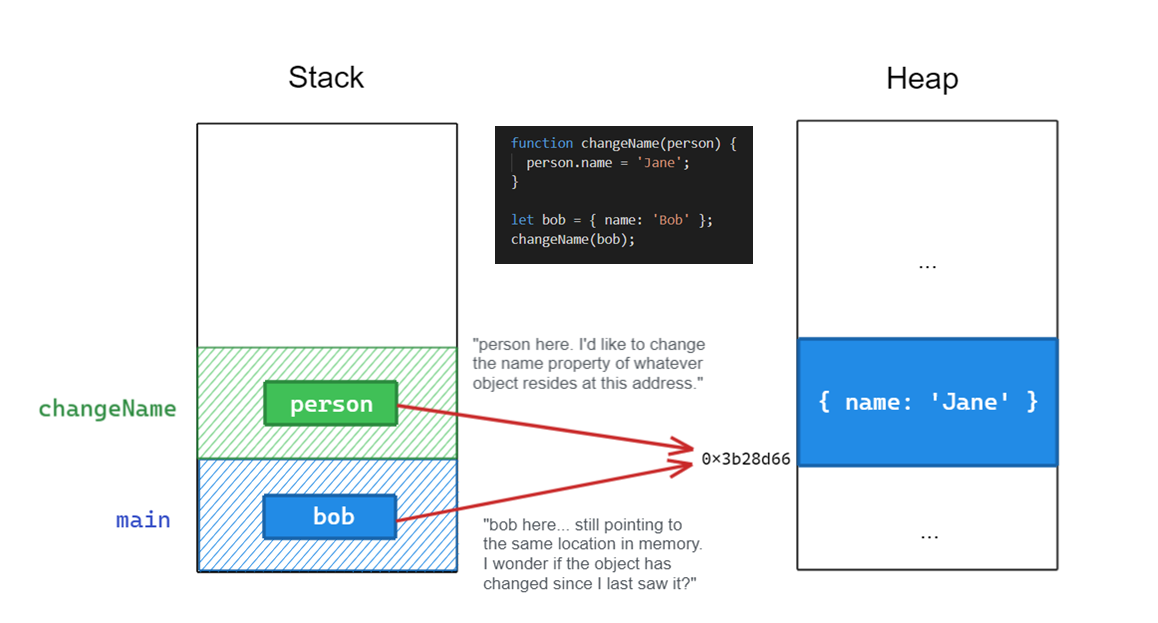
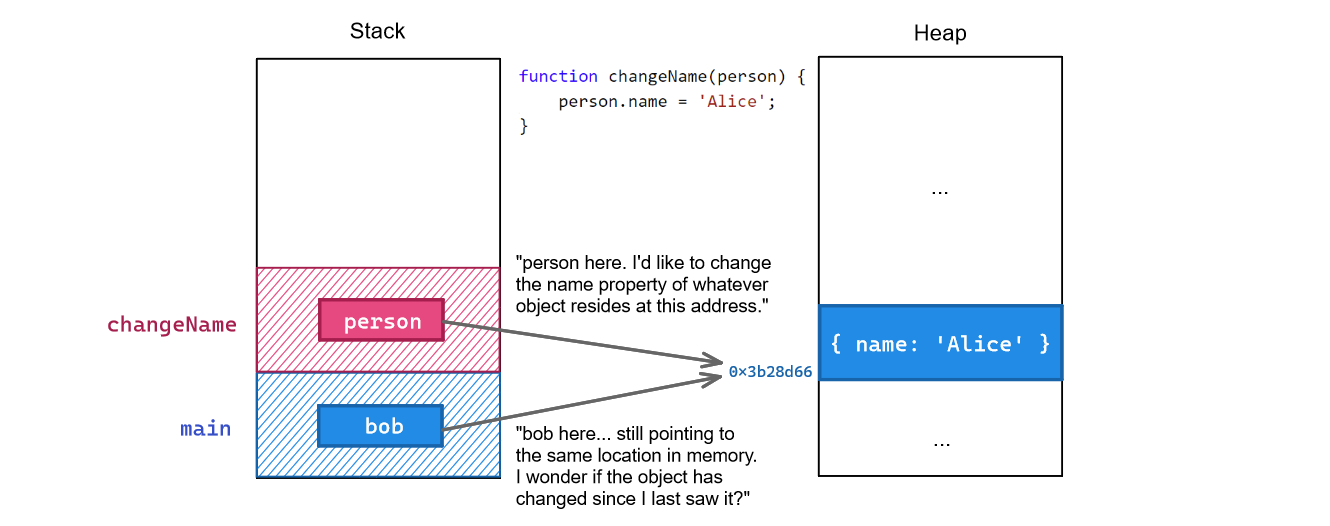
Update article: javascript-pass-by-reference

diff --git a/src/_posts/2020-04-20-javascript-pass-by-reference/index.md b/src/_posts/2020-04-20-javascript-pass-by-reference/index.md
@@ -4,34 +4,32 @@ description: Developers are often taught that JavaScript passes objects by refer
 keywords: [javascript pass by reference]
 categories: [javascript, memory]
 commentsId: 36
-lastUpdated: 2022-07-23
+lastUpdated: 2024-03-20
 thumbnail:
   url: https://images.unsplash.com/photo-1529448005898-b19fc13465b7?ixlib=rb-1.2.1&ixid=MnwxMjA3fDB8MHxwaG90by1wYWdlfHx8fGVufDB8fHx8&auto=format&fit=crop&w=1600&h=900&q=80
 ---
 
-Regardless of what programming language you end up working with, there will come a point when you'll need to know whether it supports pass by reference or if it's only a pass-by-value language; understanding this can allow you to more clearly trace the flow of data in your programs. There's a simple litmus test that can help you figure out which one a language is, but it's also important to understand what exactly these terms mean. Unfortunately, this is a topic that isn't always explained clearly. Beginners often walk away confused and with the wrong mental model for how memory works.
-
-Specifically, this explanation is very common for languages like JavaScript:
+If you're reading this article, chances are that you've heard the terms "pass by value" and "pass by reference"—whatever those mean. Maybe you were told that JavaScript is a pass-by-value language, or maybe you heard that it's pass by reference. More commonly, you've probably heard that it's both. This explanation is very common:
 
 > Primitives are passed by value; objects are passed by reference.
 
-While it certainly sounds simple enough to be true, it's not. JavaScript, like most programming languages, strictly uses pass by value and does not support pass by reference, even though it *does* have what we call "references" (object references).
+This sounds simple enough to be true, but it's actually not. JavaScript, like most programming languages, is a pass-by-value language and does not support pass by reference, even though it *does* have what we call "references" (object references).
 
-To make matters more confusing, [there's a lot of misinformation](https://medium.com/nodesimplified/javascript-pass-by-value-and-pass-by-reference-in-javascript-fcf10305aa9c) out there about this topic. It's something that beginners struggle with not only in JavaScript but also in other languages. Here's what the Medium article linked above says about passing by reference:
+To make matters more confusing, [there's a lot of misinformation](https://medium.com/nodesimplified/javascript-pass-by-value-and-pass-by-reference-in-javascript-fcf10305aa9c) out there about this topic. It's something that developers struggle with not only in JavaScript but also in other languages. Here's what the Medium article linked above says about passing by reference:
 
 > Changing the argument inside the function affect the variable passed from outside the function. In Javascript objects and arrays follows pass by reference.
 
-Even the highest rated answer on StackOverflow for [Is JavaScript a pass-by-reference or pass-by-value language?](https://stackoverflow.com/a/3638034/5323344)—with nearly three times more upvotes than the correct answer—misses the mark, claiming that JavaScript is a special case when it really isn't.
+Even the highest rated answer on StackOverflow for ["Is JavaScript a pass-by-reference or pass-by-value language?"](https://stackoverflow.com/a/3638034/5323344)—with nearly three times more upvotes than the correct answer—misses the mark, claiming that JavaScript is a special case when it really isn't.
 
 In reality, only a few programming languages actually support passing arguments by reference. Two such languages are C++ and PHP. Other languages—like C, Java, JavaScript, Python, and Go, to name a few that come to mind—pass arguments *by value*.
 
-So why do so many people get this wrong? That's what we're here to find out! If you'd like the short answer, feel free to jump to the section titled [Passing Pointers ("References") by Value](#passing-pointers-references-by-value).
+So why do so many people get this wrong? And does it even matter? That's what we're here to learn! If you'd like the short answer, feel free to jump to the section titled [Passing Pointers ("References") by Value](#passing-pointers-references-by-value).
 
 {% include "toc.md" %}
 
-## Prerequisite Terminology: Arguments vs. Parameters
+## Prerequisite Terminology
 
-Before we move on, we'll need a quick terminology primer:
+Before we move on, we'll need a quick terminology primer. Consider this code:
 
 ```javascript
 function doSomething(arg) {
@@ -42,27 +40,25 @@ const obj = { foo: 'bar' };
 doSomething(obj);
 ```
 
-A **formal parameter** (parameter for short) is the local variable declared in a function's signature. Above, the formal parameter of `doSomething` is `arg`. On the other hand, the **argument** is the variable (`obj`) whose value gets passed into the function.
+A <dfn>formal parameter</dfn> (parameter for short) is the local variable declared in a function's signature. Above, the formal parameter of `doSomething` is `arg`. On the other hand, the <dfn>argument</dfn> is the variable (`obj`) whose value gets passed into the function.
 
-Diagrammatically, here's what the stack would look like once `doSomething` has been called:
+When your browser executes this code, it will create two "frames" in its memory stack: one for the main (enclosing) scope and and another for the `doSomething` invocation. Each frame is like a compartment in a drawer, storing values and objects that are not accessible from within other compartments. Diagrammatically, here's what the stack would look like once `doSomething` has been called:
 
-{% include "postImage.html" src: "./images/stack.png", alt: "Two stack frames are shown in memory; one corresponds to the main method. The other, positioned directly above, is a function that was called from main. That stack frame contains the argument that was passed along when the function was invoked." %}
+{% include "postImage.html" src: "./images/stack-frame.png", baseFormat: "png", alt: "Two stack frames are shown in memory; one corresponds to the main method. The other, positioned directly above, is a function that was called from main. That stack frame contains the argument that was passed along when the function was invoked." %}
 
-With that out of the way, let's get into the meat of this post.
+With that out of the way, let's get into the meat of the discussion.
 
 ## JavaScript Doesn't Pass by Reference
 
-If there's one thing you should take away from this post, it's this: Passing **a reference** into a function is not the same as passing an argument **by reference**.
-
-This muddied terminology is the main source of confusion in understanding pass by value vs. pass by reference in JavaScript and other languages. It's something that trips up lots of developers.
+If there's one thing you should take away from this article, it's this: Passing **a reference** into a function is not the same as passing an argument **by reference**. This muddied terminology is the main source of confusion in understanding pass by value vs. pass by reference in JavaScript and other languages. It's something that trips up many developers.
 
 In JavaScript, variables that store objects are called **object references** (usually "references" for short). The term *reference* is a natural way to talk about these variables in English because we say that a variable *refers to* an object in memory, sort of like how an article might *reference* a source.
 
-{% include "postImage.html" src: "./images/object-reference.png", alt: "An object resides somewhere in memory. A little black square is shown, representing a variable named person that points to a specific memory address." %}
+{% include "postImage.html" src: "./images/object-reference.png", baseFormat: "png", alt: "An object resides somewhere in memory. A little black square is shown, representing a variable named person that points to a specific memory address." %}
 
-There's technically nothing wrong with using the term "reference" to talk about objects in this manner, and I don't want to discourage you from doing so—in JavaScript, this is the accepted terminology, and if you choose to deviate from it, you may end up confusing others.
+There's nothing wrong with using the term "reference" to talk about objects in this manner, and I don't want to discourage you from doing so. In JavaScript, this is the accepted terminology; if you choose to deviate from it, you'll end up confusing others.
 
-But this terminology is also confusing for beginners. Who can blame them for making the connection above? It's only natural to think that a language with references must support passing by reference. To suggest otherwise may even seem absurd or pedantic.
+But this terminology is also confusing. Who can blame developers for making the aforementioned connection? It's only natural to think that a language with references must support passing by reference. To suggest otherwise may even seem absurd or pedantic.
 
 So, to clear up this confusion, we'll need to understand two things:
 
@@ -73,15 +69,17 @@ So, to clear up this confusion, we'll need to understand two things:
 
 Let's clarify one thing before moving on: The word "reference" in "pass by reference" has a special meaning, and it does *not* mean "object reference." JavaScript does not have these "true" references. Again, terminology can be confusing!
 
-JavaScript chose to [follow in Java's footsteps](http://www.javadude.com/articles/passbyvalue.htm#on-pointers-versus-references) and uses the term "reference" when talking about variables that point to objects in memory. But as we noted above, while this makes perfect sense in English, it makes it very confusing to talk about "passing references" without losing your mind.
+JavaScript—like Java, Python, and other programming languages—uses the term "reference" when talking about variables that point to objects in memory. But as I noted above, while this makes perfect sense in English, it makes it very confusing to talk about "passing references" without losing your mind.
 
 In a class on programming language theory, you'll learn that the "reference" in "pass by reference" is actually something quite different from these "object references" that you're used to hearing about. In fact, a true reference has nothing to do with objects—references can either hold primitive values or objects.
 
 A true **reference variable** is an alias, or another name for an object. If you've mainly worked with languages like C, Java, JavaScript, Python, and others up until now, this notion of aliases may seem a bit foreign to you. And that's because those languages don't have references! For this reason, I'll use C++ to demonstrate how true references work, contrasting them with the behavior of object references in JavaScript.
 
-By analogy, a reference is like a person's nickname. My real name is Aleksandr, but I sometimes also go by Alex. People can call me either one, and they'll still be referring to me.
+{% aside %}
+By analogy, a reference is like a person's nickname. My real name is Aleksandr, but I sometimes also go by Alex. People can use either identifier to refer to me; they are interchangeable.
+{% endaside %}
 
-Here's some C++ code to illustrate true reference variables in action:
+The following C++ code demonstrates true reference variables in action:
 
 ```cpp {data-copyable=true}
 #include <iostream>
@@ -104,6 +102,8 @@ int main()
 }
 ```
 
+In this example, I created a simple string and bound it to the variable `myName`; then, I created another variable that serves as an alias for `myName` by using the special ampersand syntax for declaring references. I then bound a new string value to this alias. The change was reflected not only in the alias but also in the original (aliased) variable.
+
 In languages that don't support reference variables (e.g., JavaScript), two variables may share **a copy** of a value, but it's guaranteed that those variables will **occupy different memory addresses**. Here's an attempt at the above in JavaScript:
 
 ```javascript {data-copyable=true}
@@ -116,9 +116,9 @@ console.log(myName); // "Aleksandr"
 console.log(myNickname); // "Alex"
 ```
 
-On the second line, we're creating a copy of the string `"Aleksandr"` and storing it in a new variable named `myNickname`. Importantly, these two variables occupy *different memory addresses*—assigning a new value to one variable does not affect the value referred to by the other variable.
+On the second line, we're creating a copy of the string `"Aleksandr"` and binding it to a new variable named `myNickname`. Importantly, these two variables occupy different memory addresses—assigning a new value to one variable does not affect the value referred to by the other variable.
 
-Unlike a variable that receives a copy of a value, [a reference variable does not have its own memory address](https://stackoverflow.com/a/1950998/10480032)—it shares the same exact memory address as the original variable. Strange, isn't it? We can verify this in C++ using something called the address-of operator (`&`), which returns the memory address of a variable:
+Unlike a variable that receives a copy of a value, [a reference variable does not have its own memory address](https://stackoverflow.com/a/1950998/10480032)—it shares the same exact memory address as the original variable, as if we had never declared two variables in the first place. We can verify this in C++ using something called the address-of operator (`&`), which returns the memory address of a variable:
 
 ```cpp {data-copyable=true}
 #include <iostream>
@@ -139,7 +139,7 @@ int main()
 
 If you [run this code](http://cpp.sh/), you'll see that the same exact memory address is logged twice.
 
-It's here that some people stop listening and claim that JavaScript *does* have true references, using objects to try to prove their point:
+It's here that some developers claim that JavaScript *does* have true references, using objects to prove their point:
 
 ```javascript
 let me = { name: 'Aleksandr' };
@@ -151,13 +151,12 @@ console.log(me); // { name: 'Alex' }
 console.log(alias); // { name: 'Alex' }
 ```
 
-This certainly seems to work the way references behave, but it's not the same at all. What we've done here can be broken down into five simple steps:
+This certainly seems to work the way references behave, but it's not the same at all. What we've done here can be broken down into four simple steps:
 
 1. We've allocated space in memory to store an object (`{ name: 'Aleksandr' }`).
 2. We've created a variable named `me` that points to the memory address where this object resides.
-3. We've created yet another variable, `alias`, that also points to the same memory address.
-4. We can use either variable to modify the object at that memory address.
-5. Since both variables point to the same memory address, any changes to the object at that location will be reflected when we poll either variable in the future.
+3. We've created yet another variable, `alias`, that also points to the same memory address as `me`.
+4. We can use either variable to modify the object at that memory address. Since both variables point to the same memory address, any changes to the object at that location will be reflected when we poll either variable in the future.
 
 But these two variables, `me` and `alias`, do not share the same memory address on the stack. In other words, `alias` is not really a true reference. We can easily prove this by creating a new object and pointing `alias` to it:
 
@@ -176,23 +175,19 @@ If `alias` were in fact a true reference, then the change on line three *would'v
 
 You may have noticed that I used the term "point" quite a lot. What's up with that? What—pardon the awful pun—is the *point* I'm trying to get across?
 
-{% include "postImage.html" src: "./images/pointers.png", alt: "Comic about pointers. Someone asks for pointers, and another person fires off a bunch of memory addresses.", caption: "Source: [xkcd](https://xkcd.com/138/)." %}
+{% include "postImage.html" src: "./images/pointers.png", baseFormat: "png", alt: "xkcd comic about pointers. Two stick figures are depicted; one is sitting cross-legged in front of a TV playing video games, and the other is standing beside them. Player: 'Man, I suck at this game. Can you give me a few pointers?' Friend: '0x3A28213A 0x6339392C, 0x7363682E.' Player: 'I hate you.", caption: "Source: [xkcd](https://xkcd.com/138/)." %}
 
-So far, we've seen that JavaScript does not have "true" references—the ones that are used in "pass by reference"—even though that's the accepted shorthand when talking about "object references." So what exactly *are* object references in JavaScript?
+So far, we've seen that JavaScript does not have "true" references—the ones that are used in "pass by reference"—even though that's the accepted shorthand terminology when talking about "object references." So what exactly *are* object references in JavaScript?
 
-"Object references" in JavaScript are really **pointers**. A pointer is a variable that—instead of directly storing a primitive value like an `int`, `bool`, `float`, or `char`—stores the memory address where some data lives. Pointers refer to their data indirectly, using the addresses where those data can be found.
+"Object references" in JavaScript are really pointers. A <dfn>pointer</dfn> is a variable that—instead of directly storing a primitive value like an `int`, `bool`, `float`, or `char`—stores the memory address where some data lives. Pointers refer to their data indirectly, using the addresses where those data can be found.
 
 An analogy may help to illustrate this: A pointer is like keeping record of a person's home address instead of directly logging that person's information somewhere. If you later visit that address, you might find data living there: a person with a name, age, and so forth. The person at that address may change their name, grow older, or decide to leave the property and be replaced by another tenant with an entirely different name, age, and so on. The address may even be empty and on the market. As long as we point to the same address, we can visit it to find out what data (person) lives there. We may also one day decide to point to a completely different home address with different residents or, if we're the landlord, evict someone from their home.
-
-{% include "postImage.html" src: "./images/houses.png", alt: "Two houses with two residents." %}
 
 It may not be immediately obvious why we need pointers in the first place and how they're even relevant in JavaScript. This deserves some elaboration. If you're already familiar with pointers, feel free to skip forward to the section on [pass by value vs. pass by reference](#pass-by-value-vs-pass-by-reference).
 
 ### How Are Objects Stored in Memory?
 
-Computers are good at one thing: Storing, retrieving, and manipulating numbers. That's it.
-
-So what happens when we want to create data like objects, arrays, or strings in a programming language of our choice? How is that data stored if, for example, we have no "person" or "array" or "string" data type and computers can only store and retrieve numbers?
+Computers are good at one thing: Storing, retrieving, and manipulating numbers. So what happens when we want to create compound data like objects, arrays, or strings in a programming language? How is that data stored if, for example, we have no "person" or "array" or "string" data type and computers can only store and retrieve numbers?
 
 Let's consider this JavaScript code as an example:
 
@@ -219,11 +214,9 @@ The key takeaway here is that pointers are a fundamental tool in programming tha
 
 ## Pass by Value vs. Pass by Reference
 
-Okay, we've established that "object references" in JavaScript are really pointers and that pointers are good at one thing: storing memory addresses. Objects reside at these memory addresses. We can visit those addresses and modify the objects that live there, or we can have a variable point to an entirely new object at some other location in memory.
+Okay, we've established that "object references" in JavaScript are really pointers and that pointers are good at one thing: storing memory addresses. Objects reside at these memory addresses. We can visit those addresses and modify the objects that live there, or we can have a variable point to an entirely new object at some other location in memory. With this background, we're ready to understand why pass by reference does not exist in JavaScript.
 
-With this background, we're ready to understand why pass by reference does not exist in JavaScript.
-
-### What Is Pass by Reference?
+### Pass by Reference
 
 We've learned what references really are: *aliases*. And as it turns out, this is precisely the kind of reference that we're talking about when we say a language has "pass by reference." It's all about aliasing arguments that were passed in!
 
@@ -231,7 +224,9 @@ First, let's understand what pass by reference does *not* mean: Pass by referenc
 
 In <dfn>pass by reference</dfn>, the formal parameter is a reference variable (alias) for the argument. It's almost like two functions have temporarily agreed to call a single object by two names (one original and one alias) and to pretend that the two are equivalent. Or, in less accurate terms, you can think of it like a function "borrowing" a variable from another stack frame but calling it something else.
 
-As I alluded to in the introduction to this article, there's a classic litmus test to check if a language supports passing by reference: whether you can swap two numbers by passing them in to a function (the following code is written in JavaScript):
+#### A Litmus Test for Pass by Reference
+
+There's a classic litmus test to check if a language supports passing by reference: whether you can swap two numbers by passing them in to a function (the following code is written in JavaScript):
 
 ```javascript {data-copyable=true}
 function swap(a, b) {
@@ -278,7 +273,7 @@ int main()
 
 Let's break this down: `x` and `y` are the arguments that we pass into `swap`. The method signature of `swap` defines two reference parameters, `a` and `b`. Since these are reference variables, they serve as aliases for whatever two variables are passed in as arguments (`x` and `y`, respectively). Thus, the swap succeeds.
 
-### What Is Pass by Value?
+### Pass by Value
 
 In the simplest terms, **passing by value** is about *copying*. We already saw this above with the failed JavaScript swap:
 
@@ -321,17 +316,17 @@ If we're passing a pointer into a function as an argument, what "value" does the
 
 So, when we pass a pointer into a function as an argument, the formal parameter receives a copy of the *memory address* to which the argument was pointing. We essentially end up having two different variables, on two different stack frames (caller and callee), that point to the same location in memory.
 
-{% include "postImage.html" src: "./images/pass-pointer-by-value.png", alt: "Passing a pointer by value." %}
+{% include "postImage.html" src: "./images/passing-a-pointer-by-value.png", baseFormat: "png", alt: "Left: stack. Right: heap. Stack contains two stack frames: main (with local variable bob) and changeName (local variable person). Both variables point to the same memory address on the heap for an object." %}
 
 At that memory address is an object. We can follow either the formal parameter pointer or the argument pointer and visit that memory address to modify the object located there. In the case of the code above, we're reading the formal parameter pointer:
 
-{% include "postImage.html" src: "./images/modifying-object.png", alt: "Modifying an object pointed to in memory." %}
+{% include "postImage.html" src: "./images/modifying-object.png", baseFormat: "png", alt: "Left: stack. Right: heap. Stack contains two stack frames: main (with local variable bob) and changeName (local variable person). Both variables point to the same memory address on the heap for an object. Sample code shows changeName modifying the name property of the object at this memory address. Text reads: &quot;person here. I'd like to change the name property of whatever object resides at this address. bob here... still pointing to the same location in memory. I wonder if the object has changed since I last saw it?&quot;" %}
 
 What we cannot do is have the formal parameter point to a different location in memory and expect the argument to point to that new location once the function returns. This *would* be the case if the argument were passed in by reference. But JavaScript is pass by value!
 
-{% include "postImage.html" src: "./images/point-to-new-object.png", alt: "Pointing the formal parameter to a new object." %}
+{% include "postImage.html" src: "./images/pointing-to-a-new-object.png", baseFormat: "png", alt: "Left: stack. Right: heap. Stack contains two stack frames: main (with local variable bob) and changeName (local variable person). Both variables point to the same memory address on the heap for an object. Sample code shows changeName pointing its local variable to a new object. Text reads: &quot;person here. Time to point to a new object!&quot; Local variable bob is still pointing to the original object." %}
 
-Notice that within the scope of the `changeName` function, we can indeed observe that `person` points to this object: `{ name: 'Jane' }`. But of course, this doesn't affect the pointer argument—it's still pointing to the original location in memory, and the object there is left untouched.
+Notice that within the scope of the `changeName` function, `person` points to the object with a `name` property of `'Jane'`. But this doesn't affect the pointer argument—it's still pointing to the original location in memory, and the object there is left untouched.
 
 ## Call Them Whatever You Want
 
@@ -341,7 +336,7 @@ The reason I recommend using terms like pointer or *point* is because it's a ver
 
 But now that you understand what references really are in JavaScript, you can continue to use this term just like everyone else does to avoid confusing others.
 
-## Summary: JavaScript Is Not Pass by Reference
+## Summary
 
 Let's recap what we covered in this post:
 
